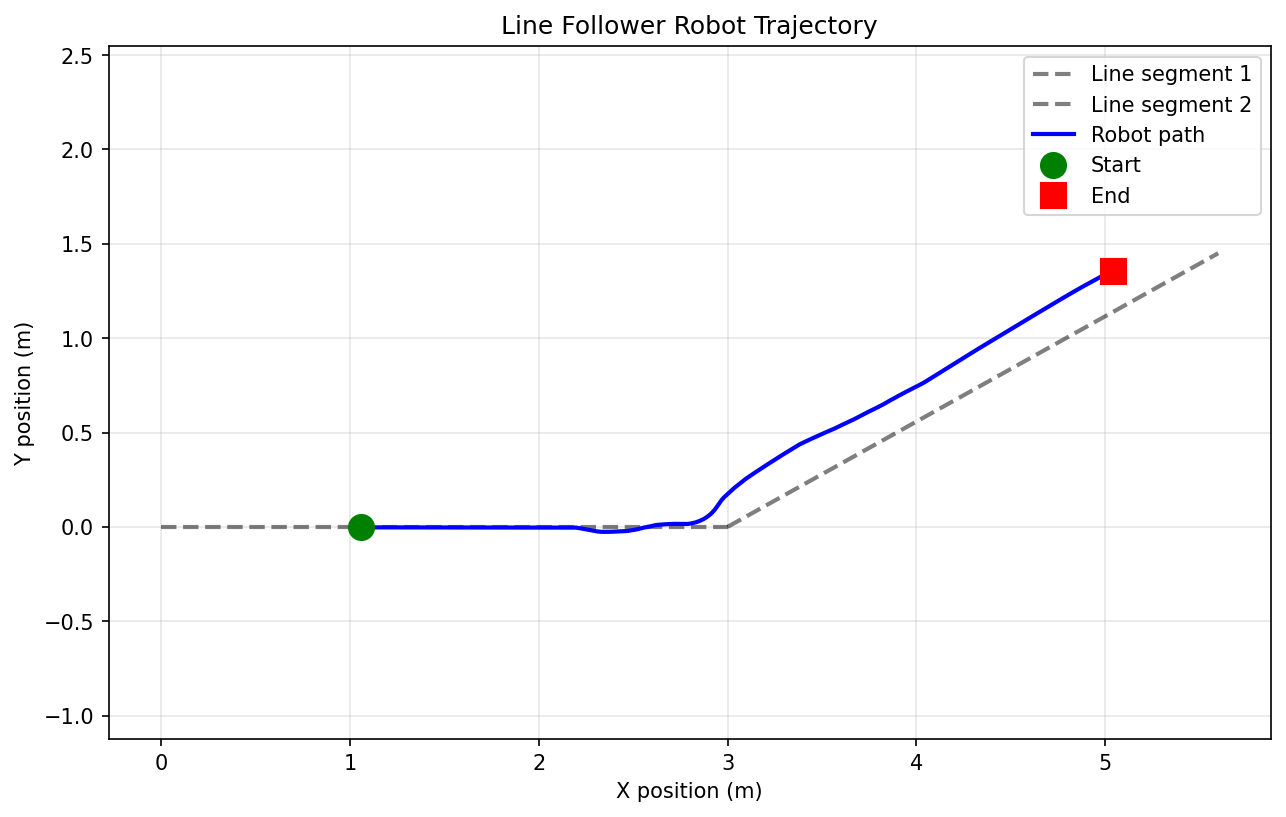
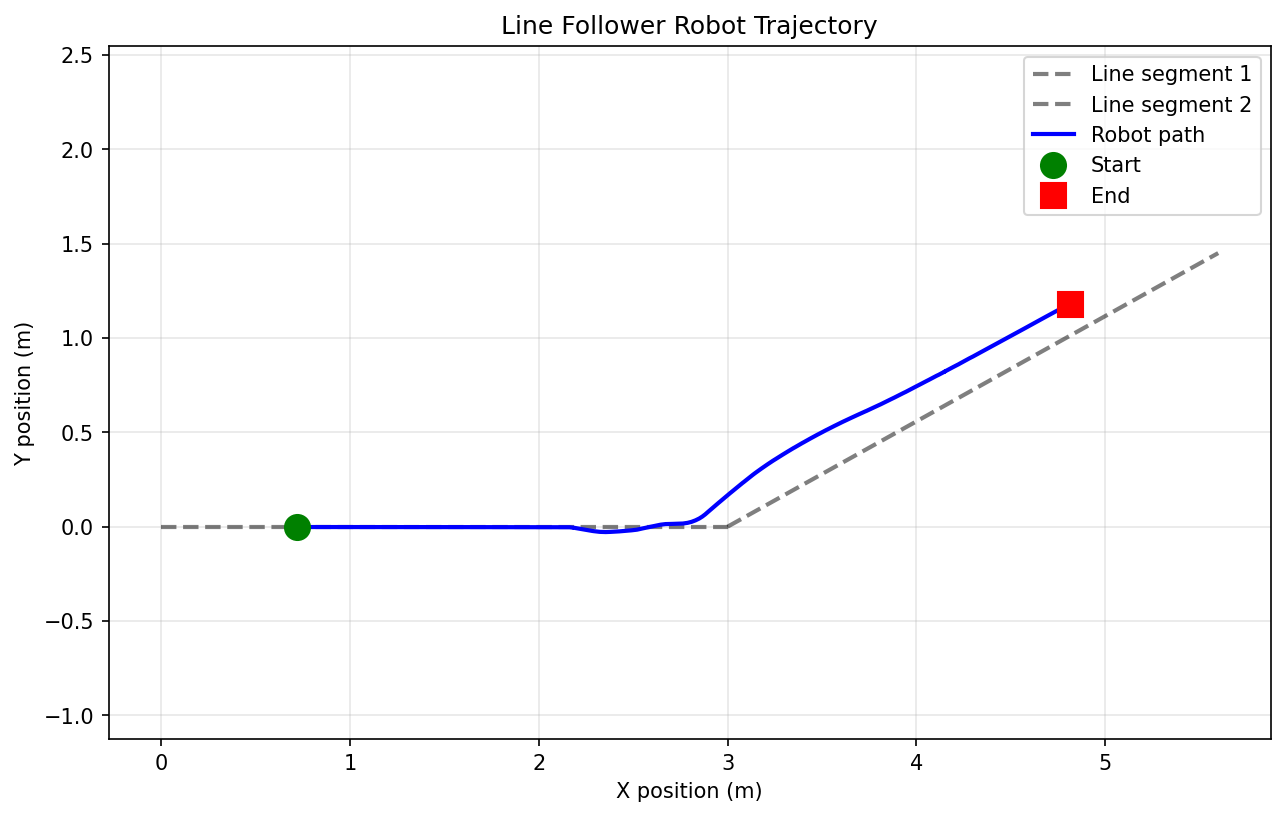
minor updates to run with docker localy

diff --git a/src/line_follower/line_follower/overlay_recorder.py b/src/line_follower/line_follower/overlay_recorder.py
@@ -1,3 +1,4 @@
+import os
 import rclpy
 from rclpy.node import Node
 from sensor_msgs.msg import Image
@@ -7,6 +8,8 @@ import cv2
 import numpy as np
 
 from line_follower.model import LineFollowerCNN
+
+_WS = os.environ.get('ROS2_LF_WORKSPACE', '/workspaces/ros2-line-follower')
 
 
 class OverlayRecorder(Node):
@@ -18,8 +21,10 @@ class OverlayRecorder(Node):
 
         self.model = LineFollowerCNN(num_classes=3)
         self.model.load_state_dict(torch.load(
-            '/workspaces/ros2-line-follower/line_follower_model.pth',
-            map_location='cpu'))
+            os.path.join(_WS, 'line_follower_model.pth'),
+            map_location='cpu',
+            weights_only=True,
+        ))
         self.model.eval()
 
         self.class_names = ['center', 'left', 'right']
@@ -89,7 +94,7 @@ class OverlayRecorder(Node):
             self.get_logger().warn('No frames recorded, nothing to save.')
             return
 
-        output_path = '/workspaces/ros2-line-follower/overlay_video.mp4'
+        output_path = os.path.join(_WS, 'overlay_video.mp4')
         fourcc = cv2.VideoWriter_fourcc(*'mp4v')
         fps = 10
         writer = cv2.VideoWriter(output_path, fourcc, fps, self.frame_size)
@@ -112,7 +117,8 @@ def main(args=None):
     finally:
         node.save_video()
         node.destroy_node()
-        rclpy.shutdown()
+        if rclpy.ok():
+            rclpy.shutdown()
 
 
 if __name__ == '__main__':

diff --git a/src/line_follower/scripts/evaluate.py b/src/line_follower/scripts/evaluate.py
@@ -1,10 +1,17 @@
+import os
+import sys
+
+_SCRIPTS_DIR = os.path.dirname(os.path.abspath(__file__))
+_PROJECT_ROOT = os.path.abspath(os.path.join(_SCRIPTS_DIR, '..', '..', '..'))
+sys.path.insert(0, _SCRIPTS_DIR)
+
 import torch
 from torch.utils.data import DataLoader, random_split
 from torchvision import datasets, transforms
 from model import LineFollowerCNN
 
-DATASET_DIR = '/workspaces/ros2-line-follower/dataset'
-MODEL_PATH = '/workspaces/ros2-line-follower/line_follower_model.pth'
+DATASET_DIR = os.path.join(_PROJECT_ROOT, 'dataset')
+MODEL_PATH = os.path.join(_PROJECT_ROOT, 'line_follower_model.pth')
 BATCH_SIZE = 32
 IMAGE_SIZE = (48, 64)
 VALIDATION_SPLIT = 0.2
@@ -27,7 +34,7 @@ def main():
     val_loader = DataLoader(val_dataset, batch_size=BATCH_SIZE, shuffle=False)
 
     model = LineFollowerCNN(num_classes=3)
-    model.load_state_dict(torch.load(MODEL_PATH))
+    model.load_state_dict(torch.load(MODEL_PATH, map_location='cpu', weights_only=True))
     model.eval()
 
 

diff --git a/src/line_follower/scripts/train.py b/src/line_follower/scripts/train.py
@@ -1,12 +1,18 @@
 import os
+import sys
+
+_SCRIPTS_DIR = os.path.dirname(os.path.abspath(__file__))
+_PROJECT_ROOT = os.path.abspath(os.path.join(_SCRIPTS_DIR, '..', '..', '..'))
+sys.path.insert(0, _SCRIPTS_DIR)
+
 import torch
 import torch.nn as nn
 from torch.utils.data import DataLoader, random_split
 from torchvision import datasets, transforms
 from model import LineFollowerCNN
 
-DATASET_DIR = '/workspaces/ros2-line-follower/dataset'
-MODEL_OUTPUT = '/workspaces/ros2-line-follower/line_follower_model.pth'
+DATASET_DIR = os.path.join(_PROJECT_ROOT, 'dataset')
+MODEL_OUTPUT = os.path.join(_PROJECT_ROOT, 'line_follower_model.pth')
 BATCH_SIZE = 32
 EPOCHS = 12
 LEARNING_RATE = 0.001
@@ -25,6 +31,7 @@ def main():
 
     val_size = int(len(full_dataset) * VALIDATION_SPLIT)
     train_size = len(full_dataset) - val_size
+    torch.manual_seed(42)
     train_dataset, val_dataset = random_split(
         full_dataset, [train_size, val_size]
     )

diff --git a/src/line_follower/line_follower/trajectory_recorder.py b/src/line_follower/line_follower/trajectory_recorder.py
@@ -1,9 +1,12 @@
+import os
 import rclpy
 from rclpy.node import Node
 from nav_msgs.msg import Odometry
 import matplotlib
 matplotlib.use('Agg')
 import matplotlib.pyplot as plt
+
+_WS = os.environ.get('ROS2_LF_WORKSPACE', '/workspaces/ros2-line-follower')
 
 
 class TrajectoryRecorder(Node):
@@ -52,7 +55,7 @@ class TrajectoryRecorder(Node):
         plt.grid(True, alpha=0.3)
         plt.axis('equal')
 
-        output_path = '/workspaces/ros2-line-follower/trajectory.png'
+        output_path = os.path.join(_WS, 'trajectory.png')
         plt.savefig(output_path, dpi=150, bbox_inches='tight')
         self.get_logger().info(f'Trajectory saved to {output_path}')
 
@@ -67,7 +70,8 @@ def main(args=None):
     finally:
         node.save_plot()
         node.destroy_node()
-        rclpy.shutdown()
+        if rclpy.ok():
+            rclpy.shutdown()
 
 
 if __name__ == '__main__':

diff --git a/src/line_follower/line_follower/inference_node.py b/src/line_follower/line_follower/inference_node.py
@@ -1,3 +1,4 @@
+import os
 import rclpy
 from rclpy.node import Node
 from sensor_msgs.msg import Image
@@ -8,6 +9,8 @@ import numpy as np
 import cv2
 
 from line_follower.model import LineFollowerCNN
+
+_WS = os.environ.get('ROS2_LF_WORKSPACE', '/workspaces/ros2-line-follower')
 
 
 
@@ -20,8 +23,9 @@ class InferenceNode(Node):
 
         self.model = LineFollowerCNN(num_classes=3)
         self.model.load_state_dict(torch.load(
-            '/workspaces/ros2-line-follower/line_follower_model.pth',
-            map_location='cpu'
+            os.path.join(_WS, 'line_follower_model.pth'),
+            map_location='cpu',
+            weights_only=True,
         ))
         self.model.eval()
 

diff --git a/src/line_follower/scripts/inspect_dataset.py b/src/line_follower/scripts/inspect_dataset.py
@@ -2,7 +2,10 @@ import os
 import cv2
 import numpy as np
 
-DATASET = '/workspaces/ros2-line-follower/dataset'
+_SCRIPTS_DIR = os.path.dirname(os.path.abspath(__file__))
+_PROJECT_ROOT = os.path.abspath(os.path.join(_SCRIPTS_DIR, '..', '..', '..'))
+
+DATASET = os.path.join(_PROJECT_ROOT, 'dataset')
 classes = ['left', 'center', 'right']
 
 rows = []
@@ -18,5 +21,5 @@ for class_name in classes:
     rows.append(row)
 
 montage = np.vstack(rows)
-cv2.imwrite('/workspaces/ros2-line-follower/dataset_preview.png', montage)
+cv2.imwrite(os.path.join(_PROJECT_ROOT, 'dataset_preview.png'), montage)
 print('Saved preview: 3 rows (left, center, right), 5 samples each')

diff --git a/src/line_follower/launch/simulation.launch.py b/src/line_follower/launch/simulation.launch.py
@@ -2,7 +2,7 @@ import os
 import subprocess
 from ament_index_python.packages import get_package_share_directory
 from launch import LaunchDescription
-from launch.actions import ExecuteProcess, IncludeLaunchDescription, SetEnvironmentVariable
+from launch.actions import IncludeLaunchDescription, SetEnvironmentVariable
 from launch.launch_description_sources import PythonLaunchDescriptionSource
 from launch_ros.actions import Node
 import xacro

diff --git a/src/line_follower/scripts/generate_dataset.py b/src/line_follower/scripts/generate_dataset.py
@@ -2,10 +2,13 @@ import os
 import numpy as np
 import cv2
 
+_SCRIPTS_DIR = os.path.dirname(os.path.abspath(__file__))
+_PROJECT_ROOT = os.path.abspath(os.path.join(_SCRIPTS_DIR, '..', '..', '..'))
+
 IMAGE_WIDTH = 640
 IMAGE_HEIGHT = 480
 SAMPLES_PER_CLASS = 1000
-OUTPUT_DIR = '/workspaces/ros2-line-follower/dataset'
+OUTPUT_DIR = os.path.join(_PROJECT_ROOT, 'dataset')
 
 LEFT_THRESHOLD = IMAGE_WIDTH * 0.4
 RIGHT_THRESHOLD = IMAGE_WIDTH * 0.6
